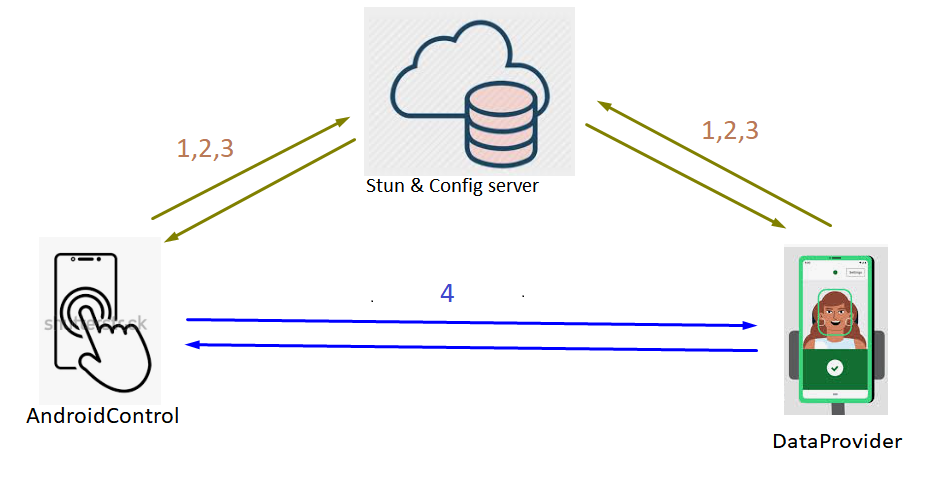
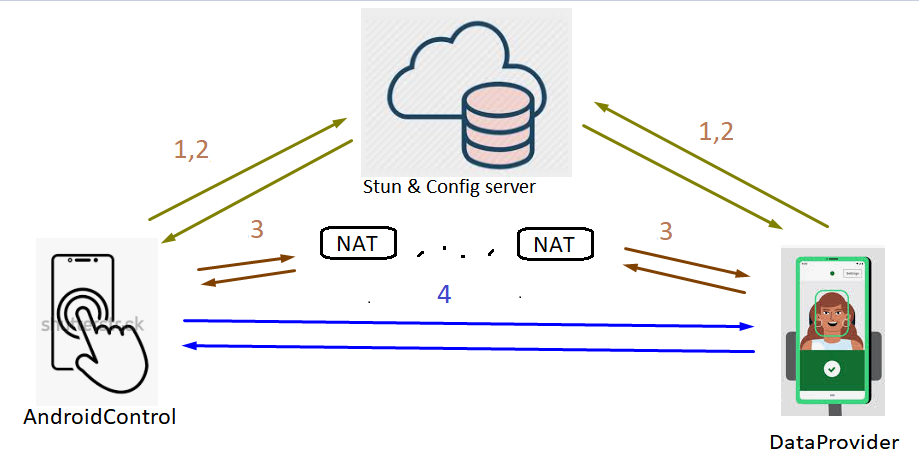
readme +

diff --git a/README.md b/README.md
@@ -1,19 +1,30 @@
 
+# Jackal
 Эта система позволяет передавать данные с минимальной задержкой через сети 3G/4G без постоянного использованя публичного сервера типа Zoom, WhatsApp и т.д.
 Данные идут напрямую (как в Skype или Torrent)
 Но для установления соединения публичный сервер все равно нужен. Это может быть не обязательно самописный rest-сервис, но и Viber со своим API или Google firebase (вернемся к этому позже)
 
-Процесс установления соединения
+## Процесс установления соединения
 
 Участники 
 - AndroidControl: Устройство с помощью которого вы отправляете команды и просматриваете видеоданные
 - DataProvider: Устройство которые умеет отправлять данные с камеры и принимать команды управления (влево, вправо, огонь и т.д.)
 
-- 1 Сначала каждый из учатсников узнает свой внешний IP адрес (используя публичные Stun серверы, можно написать и свой публичный UDP-сервер)
-- 2 Публикация в Config сервере своего локального и публичного IP, а также публикация открытого ключа
-- 3 Неприрывный опрос второго участника. Если участник появился и он свежий, идет взаимная отправка UDP пакетов друг другу по ВСЕМ портам. Некоторые Wi-fi роутеры на этом этапе отваливаются. иногда подключение проходит с 3-4 попытки. 
-- 4 После пробития дыры. идет обмен пакетами (в том числе видеоданными) на прямую. В этом режиме используется быстрое синхронное шифрование.
+Порядок установления связи
+1. Сначала каждый из учатсников узнает свой внешний IP адрес (используя публичные Stun серверы, можно написать и свой публичный UDP-сервер)
+2. Публикация в Config сервере своего локального и публичного IP, а также публикация открытого ключа
+3. Неприрывный опрос второго участника. Если участник появился и он свежий, идет взаимная отправка UDP пакетов друг другу по ВСЕМ портам. Некоторые Wi-fi роутеры на этом этапе отваливаются. иногда подключение проходит с 3-4 попытки. 
+4. После пробития дыры. идет обмен пакетами (в том числе видеоданными) на прямую. В этом режиме используется быстрое синхронное шифрование.
 
 ![Общая схема](documentation/readme.files/communication.png)
 
+## Описание внутреннего устройства
 Основная логика написана на Java 8 (для совместимости с Android). эти библиотеки также можно использовать на Raspberry Pi или Desktop приложении (windows/linux).
+
+DataProvider получает картинки с камеры, отправляет их через unix-pipe в native-c программу, она преобразовывает изображение в видеофрейм и по другому unix-pipe отправляет видеофрейм обратно в Java.
+Далее этот фрейм делится на маленькие кусочки (по килобайту) распараллеливается, шифруется и отправляется в AndroidControl. 
+
+AndroidControl получает части фрейма, склеивает их, преобразует видеофрейм в картинку и отрисовывает как bitmap на экране. Если вдруг какой-то фрейм не дошел полностью, а следующий за ним дошел и он является I-Frame то он отрисовывается не дожидаясь предыдущего.
+
+Что касается железа, то DataProvider имеет Bluetooth подключение к аппаратной части (это может быть микроконтроллер + Bluetooth модуль либо RaspberryPi c Wi-fi подключением к DataProvider или просто проводом в случае если есть OTG).
+Пакеты от AndroidControl идут сквозь DataProvider к железу. 
